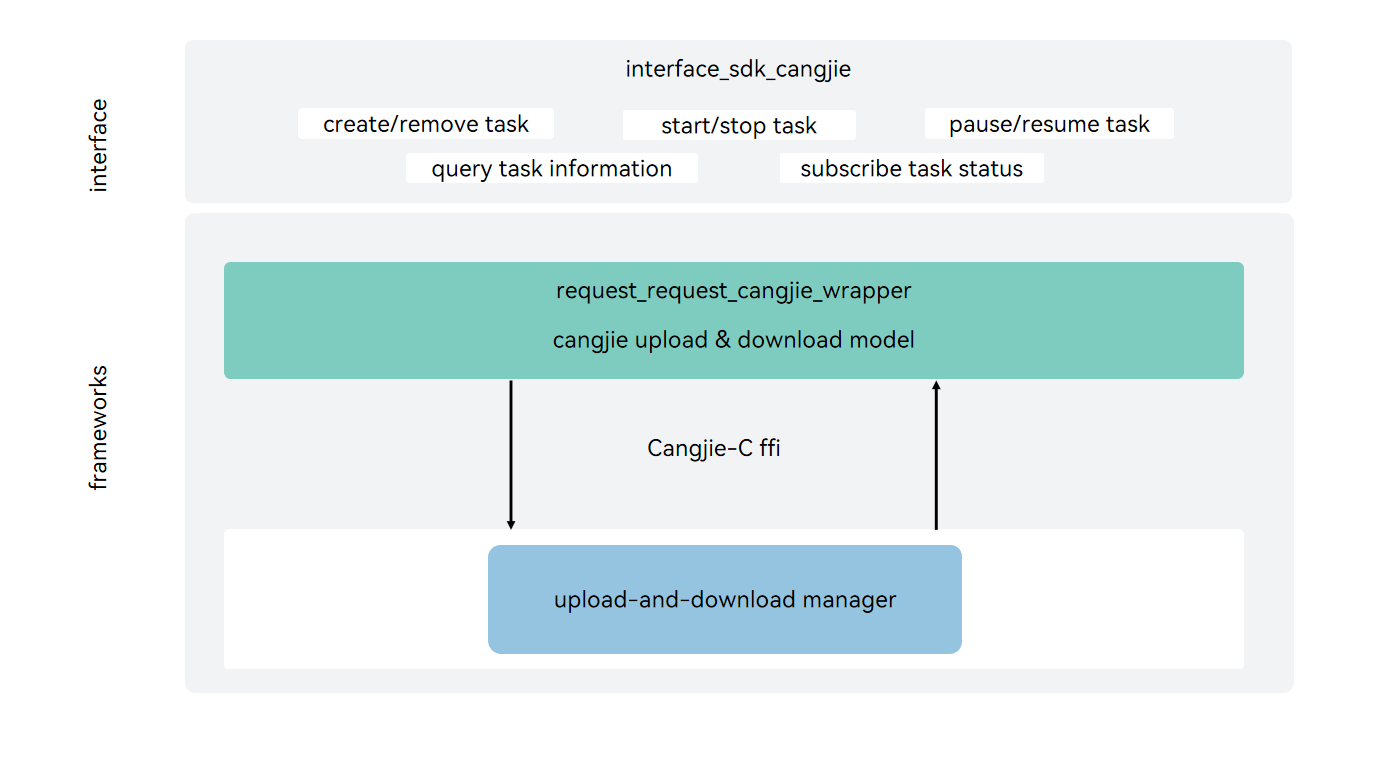
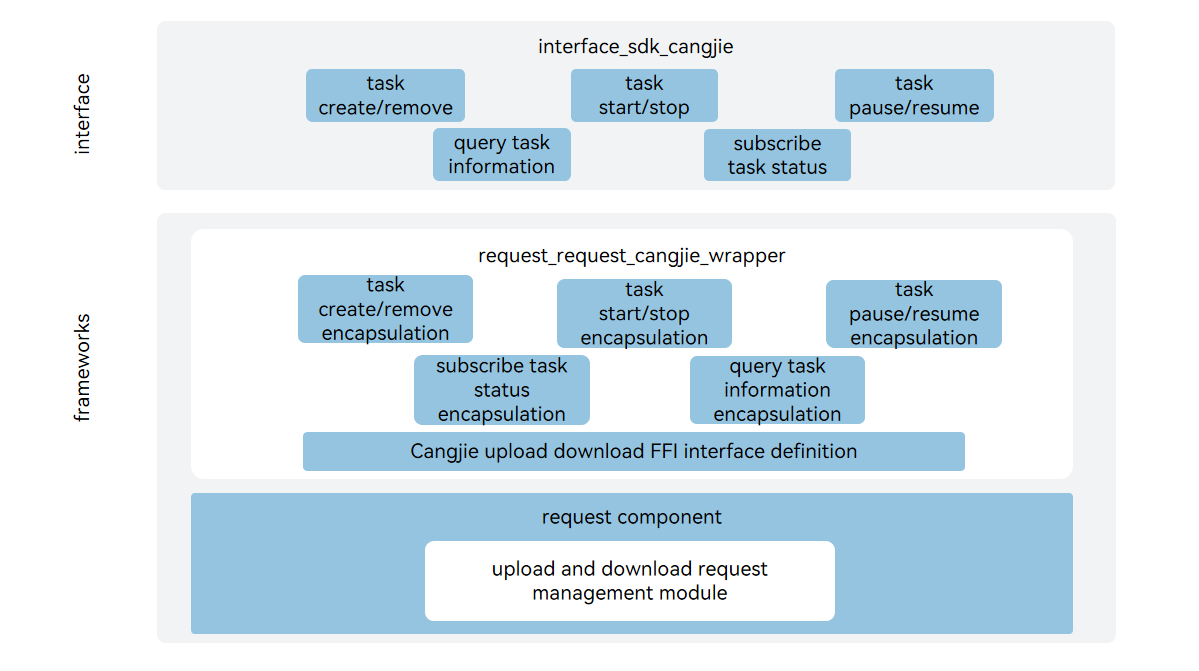
fix readme

diff --git a/README.md b/README.md
@@ -2,7 +2,7 @@
 
 ## Introduction
 
-The request_cangjie_wrapper is a Cangjie API encapsulated on OpenHarmony based on the capabilities of the upload and download subsystem. The upload and download subsystem provides upload and download capabilities for applications, including creating, removing, suspending, and starting upload and download tasks, and subscribing to the task progress and result，the currently Cangjie open interface for uploading and downloading only supports standard devices.
+The request_cangjie_wrapper is a Cangjie API encapsulated on OpenHarmony based on the capabilities of the upload and download subsystem,Cangjie open interface for uploading and downloading supports standard devices. The upload and download subsystem provides upload and download capabilities for applications, including creating, removing, suspending, and starting upload and download tasks, and subscribing to the task progress and result，.
 
 ## System Architecture
 
@@ -10,16 +10,23 @@ The request_cangjie_wrapper is a Cangjie API encapsulated on OpenHarmony based o
 
 ![](figures/request_cangjie_wrapper_architecture_en.png "Architecture of the request_cangjie_wrapper")
 
+As depicted in the architecture diagram:
+
+- task create/remove: Offer interfaces for the creation and removal of upload and download tasks.
+- task start/stop: Provide interfaces to initiate and terminate the already created upload and download tasks.
+- task pause/resume: Furnish interfaces for interrupting an executing upload or download task and resuming an interrupted one.
+- query task information : Present an interface for querying information regarding upload and download tasks.
+- subscribe task status : Provide an interface for subscribing to task status. A callback will be triggered when the task status undergoes a change.
+- Cangjie upload download FFI interface definition: Be responsible for defining the Cangjie interface for C interoperability, which is employed to realize Cangjie's upload and download capabilities.
+- upload and download request management module: Assume the responsibility of providing fundamental upload and download functions. It encapsulates the C interface for interoperability with Cangjie.
+
 ## Directory Structure
-
-The source code of the upload and download subsystem is stored in the **/base/request** directory.
-
-The directory structure is as follows:
 
 ```
 base/request/request_cangjie_wrapper
-├── ohos             # Cangjie Upload and Download code
-├── figures          # architecture pictures
+├── ohos             
+      └── request    # Cangjie Upload and Download code
+└── figures          # architecture pictures
 ```
 
 ## Constraint
@@ -67,3 +74,5 @@ Developers are welcome to contribute code, documentation, etc. For specific cont
 [arkui_arkui_cangjie_wrapper](https://gitcode.com/openharmony-sig/arkui_arkui_cangjie_wrapper/tree/master/README.md)  
 [hiviewdfx_hiviewdfx_cangjie_wrapper](https://gitcode.com/openharmony-sig/hiviewdfx_hiviewdfx_cangjie_wrapper/tree/master/README.md)  
 [ability_ability_cangjie_wrapper](https://gitcode.com/openharmony-sig/ability_ability_cangjie_wrapper/tree/master/README.md)
+
+

diff --git a/README_zh.md b/README_zh.md
@@ -2,7 +2,7 @@
 
 ## 简介
 
-上传下载仓颉接口是在 OpenHarmony 上基于上传下载子系统能力之上封装的仓颉API。上传下载服务为应用提供上传/下载能力，包括创建、移除、暂停、启动任务上传/下载，以及订阅任务进度、成功、失败等，支撑开发者方便、高效地使用下载/上传业务的功能，当前开放的上传下载仓颉接口仅支持standard设备。
+上传下载仓颉接口是在 OpenHarmony 上基于上传下载子系统能力之上封装的仓颉API，当前上传下载仓颉接口支持standard设备。上传下载仓颉接口为应用提供上传/下载能力，包括创建、移除、暂停、启动任务上传/下载，以及订阅任务进度、成功、失败等，支撑开发者方便、高效地使用下载/上传业务的功能。
 
 ## 系统架构
 
@@ -10,16 +10,23 @@
 
 ![](figures/request_cangjie_wrapper_architecture.png "上传下载仓颉架构图")
 
+如架构图所示：
+
+- 任务创建/移除：提供创建和移除上传下载任务的接口。
+- 任务启动/停止：提供启动和停止已经创建的上传下载任务的接口。
+- 任务中断/继续：提供中断一个正在执行的上传下载任务和继续一个被中断的上传下载任务的接口。
+- 查询任务信息：提供查询上传下载任务信息的接口。
+- 订阅任务状态：提供订阅任务状态的接口，当任务状态发生变化时候触发回调。
+- 仓颉上传下载FFI接口定义：负责定义C互操作仓颉接口，用于实现仓颉上传下载能力。
+- 上传下载请求管理模块：负责提供上传下载基础功能，封装C接口提供给仓颉进行互操作。
+
 ## 目录
-
-上传下载仓颉源代码在/base/request目录下。
-
-目录结构如下所示：
 
 ```
 base/request/request_cangjie_wrapper
-├── ohos             # 仓颉上传下载仓颉接口实现
-├── figures          # 存放README中的架构图
+├── ohos             
+      └── request    # 仓颉上传下载接口实现
+└── figures          # 存放README中的架构图
 ```
 
 ## 约束
@@ -67,5 +74,3 @@ base/request/request_cangjie_wrapper
 [arkui_arkui_cangjie_wrapper](https://gitcode.com/openharmony-sig/arkui_arkui_cangjie_wrapper/tree/master)  
 [hiviewdfx_hiviewdfx_cangjie_wrapper](https://gitcode.com/openharmony-sig/hiviewdfx_hiviewdfx_cangjie_wrapper/tree/master)  
 [ability_ability_cangjie_wrapper](https://gitcode.com/openharmony-sig/ability_ability_cangjie_wrapper/tree/master)
-
-
